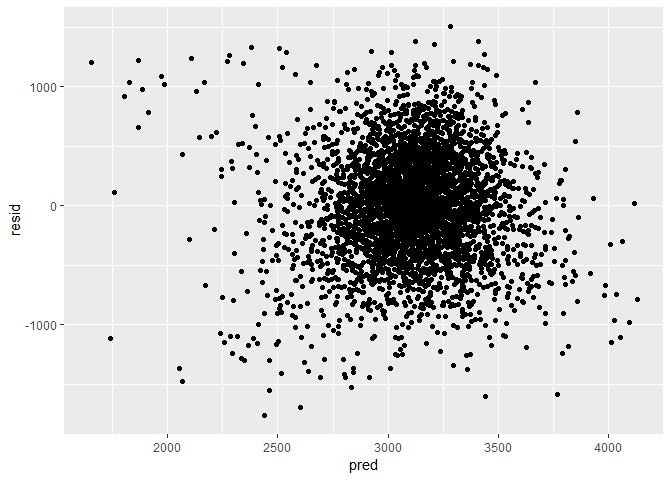
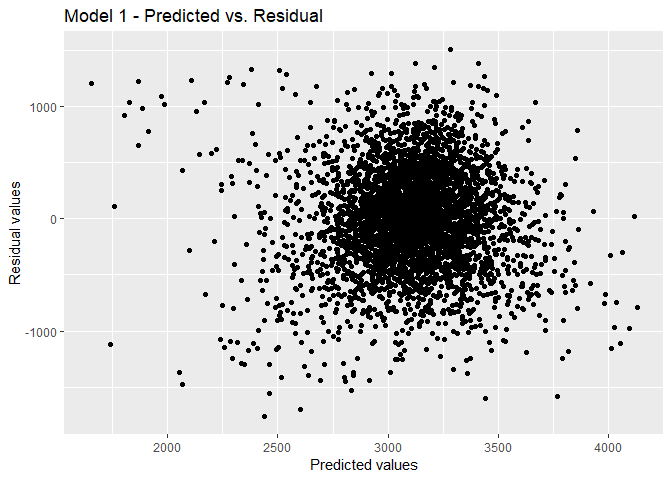
added labels to plots

diff --git a/p8105_hw6_clc2229.md b/p8105_hw6_clc2229.md
@@ -146,7 +146,7 @@ final_homicides %>%
   ) +
   scale_y_continuous(expand = c(0,0)) +
   theme_bw() +
-  theme(axis.text.x = element_text(angle = 90, hjust = 1, size = 6)) 
+  theme(axis.text.x = element_text(angle = 90, hjust = 1, size = 6))
 ```
 
 ![](p8105_hw6_clc2229_files/figure-markdown_github/unnamed-chunk-4-1.png)
@@ -229,7 +229,12 @@ birthweight %>%
   modelr::add_residuals(model_1) %>% 
   modelr::add_predictions(model_1) %>% 
   ggplot(aes(x = pred, y = resid)) +
-    geom_point()
+    geom_point() +
+  labs(
+    x = "Predicted values",
+    y = "Residual values",
+    title = "Model 1 - Predicted vs. Residual"
+  )
 ```
 
 ![](p8105_hw6_clc2229_files/figure-markdown_github/unnamed-chunk-7-1.png)
@@ -264,7 +269,12 @@ cv_birthweight %>%
   mutate(model = str_replace(model, "rmse_", ""),
          model = fct_inorder(model)) %>% 
   ggplot(aes(x = model, y = rmse)) + geom_violin() +
-  theme_bw()
+  theme_bw() +
+  labs(
+    x = "Model Number",
+    y = "RMSE",
+    title = "Distribution of RMSE by Model"
+  )
 ```
 
 ![](p8105_hw6_clc2229_files/figure-markdown_github/unnamed-chunk-9-1.png)
